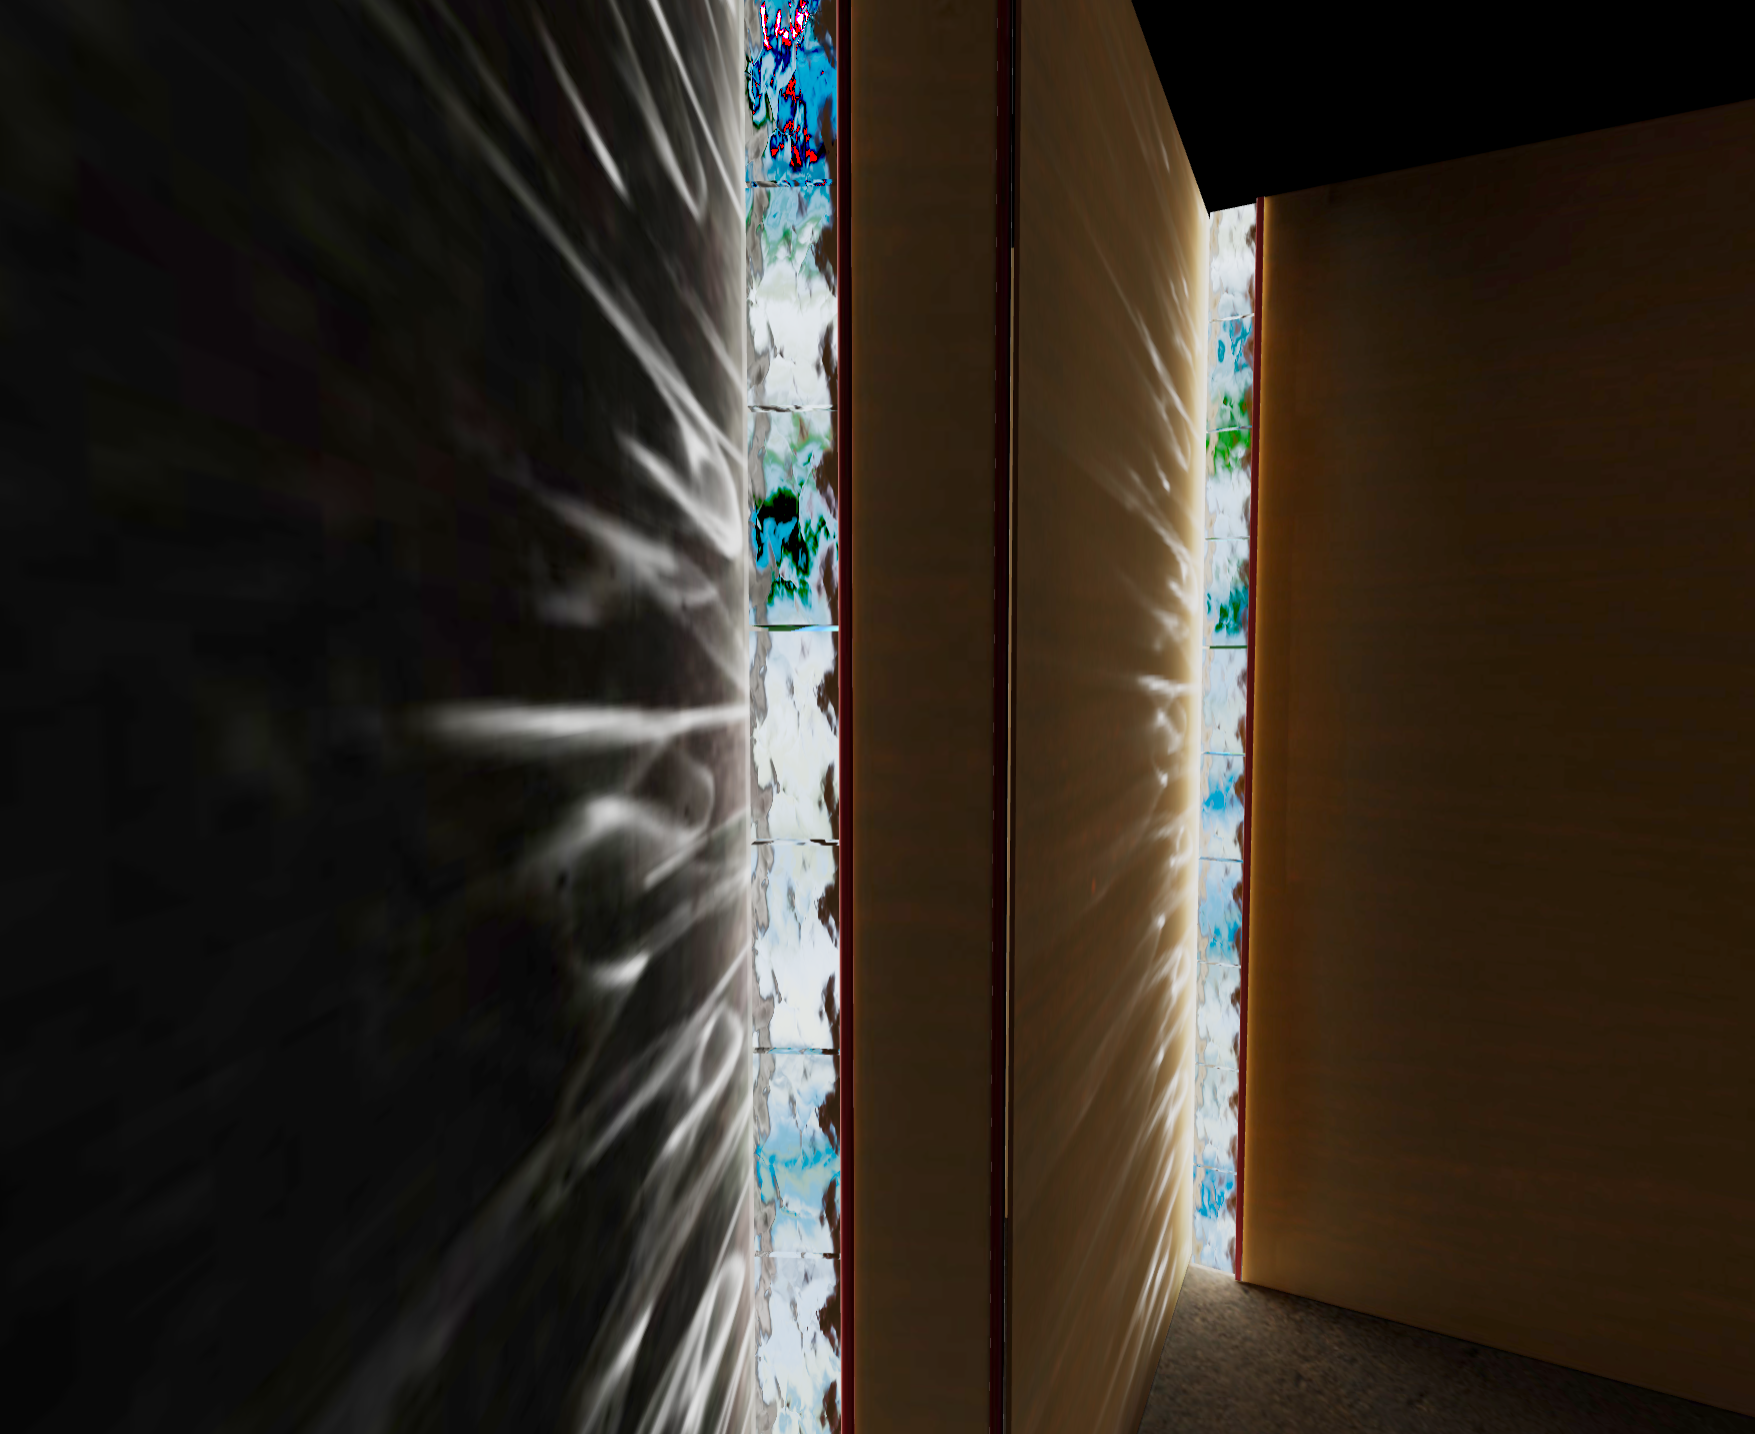
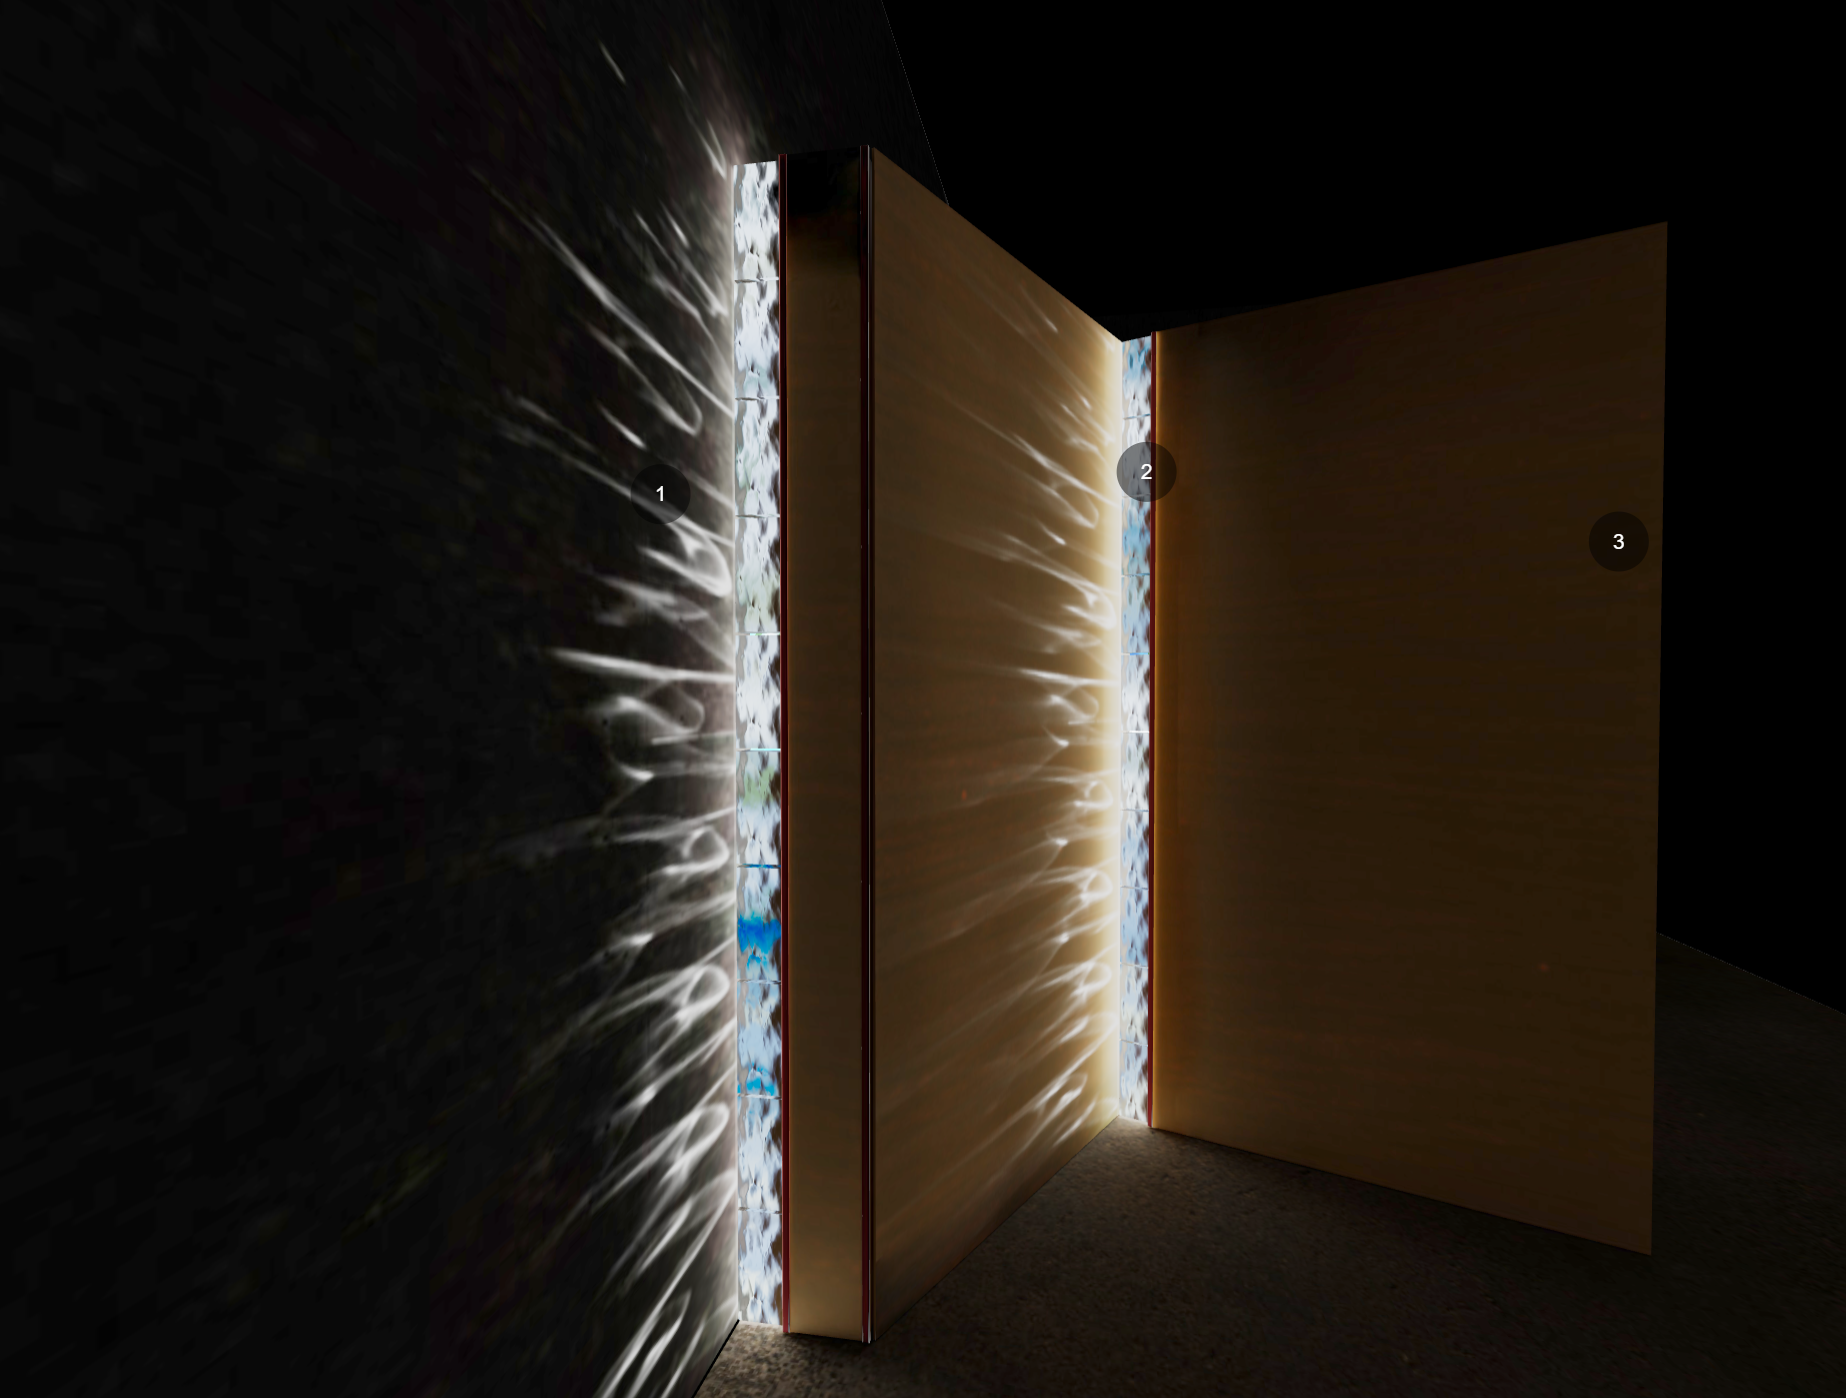
Reactivated points of interests, switched images in the README file

diff --git a/src/script.js b/src/script.js
@@ -156,33 +156,6 @@ const organicNormalTexture = textureLoader.load(
   "/textures/glassNormal/organic_02.jpg"
 );
 
-/**
- * 3D Text ====================================================================
- */
-// const fontLoader = new FontLoader();
-
-// fontLoader.load("/fonts/Vollkorn_Regular.json", (font) => {
-//   const textGeometry = new TextGeometry("Beauty of Time Passing", {
-//     font: font,
-//     size: 0.1,
-//     height: 0.2,
-//     curveSegments: 5,
-//     bevelEnabled: true,
-//     bevelThickness: 0.03,
-//     bevelSize: 0.02,
-//     bevelOffset: 0,
-//     bevelSegments: 4,
-//   });
-
-//   textGeometry.center();
-
-//   const textMaterial = new THREE.MeshMatcapMaterial();
-//   textMaterial.matcap = matcapTexture;
-//   const text = new THREE.Mesh(textGeometry, textMaterial);
-//   text.rotation.set(0, Math.PI, 0);
-//   text.position.set(2.1, 1.6, 0.08);
-//   scene.add(text);
-// });
 
 /**
  * Models =====================================================================
@@ -416,60 +389,60 @@ glassBricksMeshGroup_01.rotation.y = 2.736;
  * Points of interest ==========================================================
  */
 
-// const raycaster = new THREE.Raycaster();
+const raycaster = new THREE.Raycaster();
 
-// const pointsOfInterestLocationsParams = {
-//   pointsOfInterest_00: { x: 2.0, y: 0.3, z: -0.05 },
-//   pointsOfInterest_01: { x: 0.82, y: 0.57, z: -0.65 },
-//   pointsOfInterest_02: { x: 1.06, y: 0.35, z: -1.5 },
-//   pointsOfInterest_03: { x: -1.49, y: -0.4, z: -2.01 },
-//   pointsOfInterest_04: { x: -1.36, y: -0.316, z: -2.403 },
-// };
+const pointsOfInterestLocationsParams = {
+  pointsOfInterest_00: { x: 2.0, y: 0.3, z: -0.05 },
+  pointsOfInterest_01: { x: 0.82, y: 0.57, z: -0.65 },
+  pointsOfInterest_02: { x: 1.06, y: 0.35, z: -1.5 },
+  pointsOfInterest_03: { x: -1.49, y: -0.4, z: -2.01 },
+  pointsOfInterest_04: { x: -1.36, y: -0.316, z: -2.403 },
+};
 
-// // points of interests
-// const offset = 0.1;
-// const points = [
-//   {
-//     position: new THREE.Vector3(
-//       pointsOfInterestLocationsParams.pointsOfInterest_00.x,
-//       pointsOfInterestLocationsParams.pointsOfInterest_00.y,
-//       pointsOfInterestLocationsParams.pointsOfInterest_00.z
-//     ),
-//     element: document.querySelector(".point-0"),
-//   },
-//   {
-//     position: new THREE.Vector3(
-//       pointsOfInterestLocationsParams.pointsOfInterest_01.x,
-//       pointsOfInterestLocationsParams.pointsOfInterest_01.y,
-//       pointsOfInterestLocationsParams.pointsOfInterest_01.z
-//     ),
-//     element: document.querySelector(".point-1"),
-//   },
-//   {
-//     position: new THREE.Vector3(
-//       pointsOfInterestLocationsParams.pointsOfInterest_02.x,
-//       pointsOfInterestLocationsParams.pointsOfInterest_02.y,
-//       pointsOfInterestLocationsParams.pointsOfInterest_02.z
-//     ),
-//     element: document.querySelector(".point-2"),
-//   },
-//   {
-//     position: new THREE.Vector3(
-//       pointsOfInterestLocationsParams.pointsOfInterest_03.x,
-//       pointsOfInterestLocationsParams.pointsOfInterest_03.y,
-//       pointsOfInterestLocationsParams.pointsOfInterest_03.z
-//     ),
-//     element: document.querySelector(".point-3"),
-//   },
-//   {
-//     position: new THREE.Vector3(
-//       pointsOfInterestLocationsParams.pointsOfInterest_04.x,
-//       pointsOfInterestLocationsParams.pointsOfInterest_04.y,
-//       pointsOfInterestLocationsParams.pointsOfInterest_04.z
-//     ),
-//     element: document.querySelector(".point-4"),
-//   },
-// ];
+// points of interests
+const offset = 0.1;
+const points = [
+  {
+    position: new THREE.Vector3(
+      pointsOfInterestLocationsParams.pointsOfInterest_00.x,
+      pointsOfInterestLocationsParams.pointsOfInterest_00.y,
+      pointsOfInterestLocationsParams.pointsOfInterest_00.z
+    ),
+    element: document.querySelector(".point-0"),
+  },
+  {
+    position: new THREE.Vector3(
+      pointsOfInterestLocationsParams.pointsOfInterest_01.x,
+      pointsOfInterestLocationsParams.pointsOfInterest_01.y,
+      pointsOfInterestLocationsParams.pointsOfInterest_01.z
+    ),
+    element: document.querySelector(".point-1"),
+  },
+  {
+    position: new THREE.Vector3(
+      pointsOfInterestLocationsParams.pointsOfInterest_02.x,
+      pointsOfInterestLocationsParams.pointsOfInterest_02.y,
+      pointsOfInterestLocationsParams.pointsOfInterest_02.z
+    ),
+    element: document.querySelector(".point-2"),
+  },
+  {
+    position: new THREE.Vector3(
+      pointsOfInterestLocationsParams.pointsOfInterest_03.x,
+      pointsOfInterestLocationsParams.pointsOfInterest_03.y,
+      pointsOfInterestLocationsParams.pointsOfInterest_03.z
+    ),
+    element: document.querySelector(".point-3"),
+  },
+  {
+    position: new THREE.Vector3(
+      pointsOfInterestLocationsParams.pointsOfInterest_04.x,
+      pointsOfInterestLocationsParams.pointsOfInterest_04.y,
+      pointsOfInterestLocationsParams.pointsOfInterest_04.z
+    ),
+    element: document.querySelector(".point-4"),
+  },
+];
 
 /**
  * Sizes =======================================================================
@@ -547,33 +520,33 @@ const tick = () => {
   glassBrickLightMaterial.uniforms.uTime.value = elapsedTime;
   projectorLightMaterial.uniforms.uTime.value = elapsedTime;
 
-  // if (isSceneReady) {
-  //   // Go through each point
-  //   for (const point of points) {
-  //     const screenPosition = point.position.clone();
-  //     screenPosition.project(camera);
+  if (isSceneReady) {
+    // Go through each point
+    for (const point of points) {
+      const screenPosition = point.position.clone();
+      screenPosition.project(camera);
 
-  //     raycaster.setFromCamera(screenPosition, camera);
-  //     const intersects = raycaster.intersectObjects(scene.children, true);
+      raycaster.setFromCamera(screenPosition, camera);
+      const intersects = raycaster.intersectObjects(scene.children, true);
 
-  //     if (intersects.length === 0) {
-  //       point.element.classList.add("visible");
-  //     } else {
-  //       const intersectionDistance = intersects[0].distance;
-  //       const pointDistance = point.position.distanceTo(camera.position);
+      if (intersects.length === 0) {
+        point.element.classList.add("visible");
+      } else {
+        const intersectionDistance = intersects[0].distance;
+        const pointDistance = point.position.distanceTo(camera.position);
 
-  //       if (intersectionDistance < pointDistance) {
-  //         point.element.classList.remove("visible");
-  //       } else {
-  //         point.element.classList.add("visible");
-  //       }
-  //     }
+        if (intersectionDistance < pointDistance) {
+          point.element.classList.remove("visible");
+        } else {
+          point.element.classList.add("visible");
+        }
+      }
 
-  //     const translateX = screenPosition.x * sizes.width * 0.5;
-  //     const translateY = -screenPosition.y * sizes.height * 0.5;
-  //     point.element.style.transform = `translate(${translateX}px, ${translateY}px)`;
-  //   }
-  // }
+      const translateX = screenPosition.x * sizes.width * 0.5;
+      const translateY = -screenPosition.y * sizes.height * 0.5;
+      point.element.style.transform = `translate(${translateX}px, ${translateY}px)`;
+    }
+  }
 
   // Render
   renderer.render(scene, camera);
